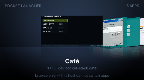
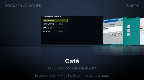
fix(launcher): straight card seams + PSP RAM budget for reflections
Two real-hardware finds from the reflection feature:

- The single 256x256 card quad put the cover/reflection seam mid-quad,
  where the GE's screen-space affine sampling bends texture lines at the
  triangle diagonal on tilted cards (a two-segment polyline where the
  card's bottom edge should be). Cover and reflection are now TWO quads
  stacked in the rotating container — the seam is a shared geometric
  edge and projects straight; interior affine warp stays, as the era
  intended.
- Full-res reflection textures tipped the PSP arena over (~2 MB extra
  texture heap) and boot parked on the OOM handler. Reflections now
  ship quarter-res PSM_4444 (16 KB a card) — invisible at 30% alpha,
  and the sim never noticed either issue.

diff --git a/scripts/launcher.ts b/scripts/launcher.ts
@@ -124,9 +124,12 @@ function writeRegistry(registry: LauncherRegistry): void {
     "  output: string;",
     "  id: string;",
     "  title: string;",
-    "  /** Pak image asset of the 256×128 cover. The literal path below is",
+    "  /** Pak image asset of the 256×128 cover. The literal paths below are",
     "   *  what the build's asset collector picks up and bakes. */",
     "  cover: string;",
+    "  /** The cover's baked reflection (mirrored + alpha falloff), drawn as",
+    "   *  its own quad so the seam stays a geometric straight edge. */",
+    "  refl: string;",
     "}",
     "",
     "export const REGISTRY: readonly RegistryApp[] = [",
@@ -134,7 +137,9 @@ function writeRegistry(registry: LauncherRegistry): void {
       (a) =>
         `  { output: ${JSON.stringify(a.output)}, id: ${JSON.stringify(a.id)}, title: ${JSON.stringify(
           a.title,
-        )}, cover: ${JSON.stringify(`covers/cover-${a.output}.png`)} },`,
+        )}, cover: ${JSON.stringify(`covers/cover-${a.output}.png`)}, refl: ${JSON.stringify(
+          `covers/refl-${a.output}.png`,
+        )} },`,
     ),
     "] as const;",
     "",
@@ -147,8 +152,13 @@ function writeRegistry(registry: LauncherRegistry): void {
   const images: Record<string, { linear: boolean }> = {
     "covers/launcher-bg.png": { linear: true },
   };
-  for (const a of registry.apps) images[`covers/cover-${a.output}.png`] = { linear: true };
-  writeFileSync(IMAGES_JSON, JSON.stringify(images, null, 2) + "\n");
+  const images4444: Record<string, { linear: boolean; psm: number }> = {};
+  for (const a of registry.apps) {
+    images[`covers/cover-${a.output}.png`] = { linear: true };
+    // Quarter-res faint mirrors: 16-bit color is invisible at 30% alpha.
+    images4444[`covers/refl-${a.output}.png`] = { linear: true, psm: 2 };
+  }
+  writeFileSync(IMAGES_JSON, JSON.stringify({ ...images, ...images4444 }, null, 2) + "\n");
 }
 
 async function compileApp(manifest: string): Promise<void> {
@@ -240,26 +250,35 @@ function stageBackground(w = SHOT_W, h = SHOT_H): Uint8Array {
   return out;
 }
 
-/** The classic Cover Flow reflection, BAKED: the card texture doubles to
- *  256×256 — cover on top, a vertically mirrored copy below with an alpha
- *  falloff (≈30% at the seam, gone ~60% down). One quad per card carries
- *  both, so the reflection rides the card's rotation for free and the fade
- *  lives in the texture's alpha (the 3D pipeline has no per-quad gradient —
- *  the stage simply shows through). */
-function withReflection(cover: Uint8Array): Uint8Array {
-  const out = new Uint8Array(SHOT_W * SHOT_H * 2 * 4);
-  out.set(cover, 0);
+/** The classic Cover Flow reflection, BAKED as its OWN 256×128 texture: the
+ *  cover vertically mirrored with an alpha falloff (≈30% at the seam, gone
+ *  ~60% down). It is drawn as a SEPARATE quad stacked under the cover in
+ *  the same rotating container — the seam is then a shared GEOMETRIC edge
+ *  and stays a straight line. (Baking both halves into one tall quad put
+ *  the seam mid-quad, where the GE's screen-space affine sampling bends
+ *  texture lines at the triangle diagonal on tilted cards — a real-PSP
+ *  find; the sim's centered card never shows it.) */
+/** Reflections are faint by definition, so they ship QUARTER-res (128×64,
+ *  PSM_4444 via images.json) — 16 KB a card instead of 128 KB. The full-res
+ *  first cut OOM'd the PSP: ~2 MB of extra texture heap tipped the arena
+ *  over and the boot parked on the OOM handler (sim RAM never notices). */
+const REFL_W = SHOT_W / 2;
+const REFL_H = SHOT_H / 2;
+
+function reflectionOf(cover: Uint8Array): Uint8Array {
+  const small = resizeBilinear(cover, SHOT_W, SHOT_H, REFL_W, REFL_H);
+  const out = new Uint8Array(REFL_W * REFL_H * 4);
   const strength = 0.3;
-  const fadeRows = 74;
+  const fadeRows = 37;
   for (let k = 0; k < fadeRows; k++) {
     const f = strength * Math.pow(1 - k / fadeRows, 1.7);
-    const src = (SHOT_H - 1 - k) * SHOT_W * 4;
-    const dst = (SHOT_H + k) * SHOT_W * 4;
-    for (let x = 0; x < SHOT_W; x++) {
-      out[dst + x * 4] = cover[src + x * 4];
-      out[dst + x * 4 + 1] = cover[src + x * 4 + 1];
-      out[dst + x * 4 + 2] = cover[src + x * 4 + 2];
-      out[dst + x * 4 + 3] = Math.round(cover[src + x * 4 + 3] * f);
+    const src = (REFL_H - 1 - k) * REFL_W * 4;
+    const dst = k * REFL_W * 4;
+    for (let x = 0; x < REFL_W; x++) {
+      out[dst + x * 4] = small[src + x * 4];
+      out[dst + x * 4 + 1] = small[src + x * 4 + 1];
+      out[dst + x * 4 + 2] = small[src + x * 4 + 2];
+      out[dst + x * 4 + 3] = Math.round(small[src + x * 4 + 3] * f);
     }
   }
   return out;
@@ -277,7 +296,8 @@ async function renderCovers(registry: LauncherRegistry, force: boolean): Promise
   const { bootWorld } = await import("../host-sim/sim.ts");
   for (const app of registry.apps) {
     const coverPath = join(COVERS_DIR, `cover-${app.output}.png`);
-    if (!force && existsSync(coverPath)) continue;
+    const reflPath = join(COVERS_DIR, `refl-${app.output}.png`);
+    if (!force && existsSync(coverPath) && existsSync(reflPath)) continue;
     if (force || !existsSync(join(ROOT, "dist", `${app.output}.js`))) {
       await compileApp(app.manifest);
     }
@@ -295,9 +315,11 @@ async function renderCovers(registry: LauncherRegistry, force: boolean): Promise
       const message = error instanceof Error ? error.message : String(error);
       console.log(`  cover ${app.output} -> fallback gradient (sim boot failed: ${message})`);
     }
+    const ringed = transparentRing(shot, SHOT_W, SHOT_H);
+    await Bun.write(coverPath, encodePNG(ringed, SHOT_W, SHOT_H));
     await Bun.write(
-      coverPath,
-      encodePNG(withReflection(transparentRing(shot, SHOT_W, SHOT_H)), SHOT_W, SHOT_H * 2),
+      join(COVERS_DIR, `refl-${app.output}.png`),
+      encodePNG(reflectionOf(ringed), REFL_W, REFL_H),
     );
   }
 }

diff --git a/demos/launcher/registry.generated.ts b/demos/launcher/registry.generated.ts
@@ -8,25 +8,28 @@ export interface RegistryApp {
   output: string;
   id: string;
   title: string;
-  /** Pak image asset of the 256×128 cover. The literal path below is
+  /** Pak image asset of the 256×128 cover. The literal paths below are
    *  what the build's asset collector picks up and bakes. */
   cover: string;
+  /** The cover's baked reflection (mirrored + alpha falloff), drawn as
+   *  its own quad so the seam stays a geometric straight edge. */
+  refl: string;
 }
 
 export const REGISTRY: readonly RegistryApp[] = [
-  { output: "cafe-main", id: "dev.pocket-stack.cafe", title: "PocketJS: Café", cover: "covers/cover-cafe-main.png" },
-  { output: "chrome-main", id: "dev.pocket-stack.chrome", title: "PocketJS: Chrome", cover: "covers/cover-chrome-main.png" },
-  { output: "cursor-main", id: "dev.pocket-stack.cursor", title: "PocketJS: Cursor", cover: "covers/cover-cursor-main.png" },
-  { output: "cards-main", id: "dev.pocket-stack.cards", title: "PocketJS: Feature Cards", cover: "covers/cover-cards-main.png" },
-  { output: "gallery-main", id: "dev.pocket-stack.gallery", title: "PocketJS: Gallery (L / R paging)", cover: "covers/cover-gallery-main.png" },
-  { output: "library-main", id: "dev.pocket-stack.library", title: "PocketJS: Game Library", cover: "covers/cover-library-main.png" },
-  { output: "hero-main", id: "dev.pocket-stack.hero", title: "PocketJS: Hero", cover: "covers/cover-hero-main.png" },
-  { output: "hero-vue-vapor-main", id: "dev.pocket-stack.hero.vue.vapor", title: "PocketJS: Hero Vue Vapor", cover: "covers/cover-hero-vue-vapor-main.png" },
-  { output: "stats-main", id: "dev.pocket-stack.stats", title: "PocketJS: Mission Control", cover: "covers/cover-stats-main.png" },
-  { output: "motions-main", id: "dev.pocket-stack.motions", title: "PocketJS: Motion Lab (yui540 studies on baked keyframe timelines)", cover: "covers/cover-motions-main.png" },
-  { output: "notifications-main", id: "dev.pocket-stack.notifications", title: "PocketJS: Notifications", cover: "covers/cover-notifications-main.png" },
-  { output: "music-main", id: "dev.pocket-stack.music", title: "PocketJS: Now Playing", cover: "covers/cover-music-main.png" },
-  { output: "settings-main", id: "dev.pocket-stack.settings", title: "PocketJS: Settings", cover: "covers/cover-settings-main.png" },
-  { output: "im-main", id: "dev.pocket-stack.im", title: "PocketJS: Talk", cover: "covers/cover-im-main.png" },
-  { output: "zoomlab-main", id: "dev.pocket-stack.zoomlab", title: "Zoom Lab", cover: "covers/cover-zoomlab-main.png" },
+  { output: "cafe-main", id: "dev.pocket-stack.cafe", title: "PocketJS: Café", cover: "covers/cover-cafe-main.png", refl: "covers/refl-cafe-main.png" },
+  { output: "chrome-main", id: "dev.pocket-stack.chrome", title: "PocketJS: Chrome", cover: "covers/cover-chrome-main.png", refl: "covers/refl-chrome-main.png" },
+  { output: "cursor-main", id: "dev.pocket-stack.cursor", title: "PocketJS: Cursor", cover: "covers/cover-cursor-main.png", refl: "covers/refl-cursor-main.png" },
+  { output: "cards-main", id: "dev.pocket-stack.cards", title: "PocketJS: Feature Cards", cover: "covers/cover-cards-main.png", refl: "covers/refl-cards-main.png" },
+  { output: "gallery-main", id: "dev.pocket-stack.gallery", title: "PocketJS: Gallery (L / R paging)", cover: "covers/cover-gallery-main.png", refl: "covers/refl-gallery-main.png" },
+  { output: "library-main", id: "dev.pocket-stack.library", title: "PocketJS: Game Library", cover: "covers/cover-library-main.png", refl: "covers/refl-library-main.png" },
+  { output: "hero-main", id: "dev.pocket-stack.hero", title: "PocketJS: Hero", cover: "covers/cover-hero-main.png", refl: "covers/refl-hero-main.png" },
+  { output: "hero-vue-vapor-main", id: "dev.pocket-stack.hero.vue.vapor", title: "PocketJS: Hero Vue Vapor", cover: "covers/cover-hero-vue-vapor-main.png", refl: "covers/refl-hero-vue-vapor-main.png" },
+  { output: "stats-main", id: "dev.pocket-stack.stats", title: "PocketJS: Mission Control", cover: "covers/cover-stats-main.png", refl: "covers/refl-stats-main.png" },
+  { output: "motions-main", id: "dev.pocket-stack.motions", title: "PocketJS: Motion Lab (yui540 studies on baked keyframe timelines)", cover: "covers/cover-motions-main.png", refl: "covers/refl-motions-main.png" },
+  { output: "notifications-main", id: "dev.pocket-stack.notifications", title: "PocketJS: Notifications", cover: "covers/cover-notifications-main.png", refl: "covers/refl-notifications-main.png" },
+  { output: "music-main", id: "dev.pocket-stack.music", title: "PocketJS: Now Playing", cover: "covers/cover-music-main.png", refl: "covers/refl-music-main.png" },
+  { output: "settings-main", id: "dev.pocket-stack.settings", title: "PocketJS: Settings", cover: "covers/cover-settings-main.png", refl: "covers/refl-settings-main.png" },
+  { output: "im-main", id: "dev.pocket-stack.im", title: "PocketJS: Talk", cover: "covers/cover-im-main.png", refl: "covers/refl-im-main.png" },
+  { output: "zoomlab-main", id: "dev.pocket-stack.zoomlab", title: "Zoom Lab", cover: "covers/cover-zoomlab-main.png", refl: "covers/refl-zoomlab-main.png" },
 ] as const;

diff --git a/demos/launcher/app.tsx b/demos/launcher/app.tsx
@@ -220,10 +220,11 @@ export default function Launcher() {
         <View debugName="Deck" class="absolute inset-0 perspective-[620]">
           {apps.map((app, i) => {
             const t = targetFor(i - untrack(sel));
-            // 192×192 quad: cover on the top half, the baked reflection on
-            // the bottom (one texture, LAUNCHER.md) — rotateY is about the
-            // vertical center axis, so the taller box changes nothing about
-            // the deck geometry.
+            // Cover + baked reflection as TWO stacked quads in one rotating
+            // 192×192 container: their shared seam is a geometric edge and
+            // projects to a straight line. (One tall quad put the seam
+            // mid-texture, where the GE's screen-space affine sampling bends
+            // it at the triangle diagonal on tilted cards — real-PSP find.)
             return (
               <View
                 ref={(el: NodeMirror) => (cardEls[i] = el)}
@@ -236,7 +237,8 @@ export default function Launcher() {
                   opacity: t.opacity,
                 }}
               >
-                <Image class="absolute left-0 top-0 w-[192] h-[192]" src={app.cover} />
+                <Image class="absolute left-0 top-0 w-[192] h-[96]" src={app.cover} />
+                <Image class="absolute left-0 top-[96] w-[192] h-[96]" src={app.refl} />
               </View>
             );
           })}